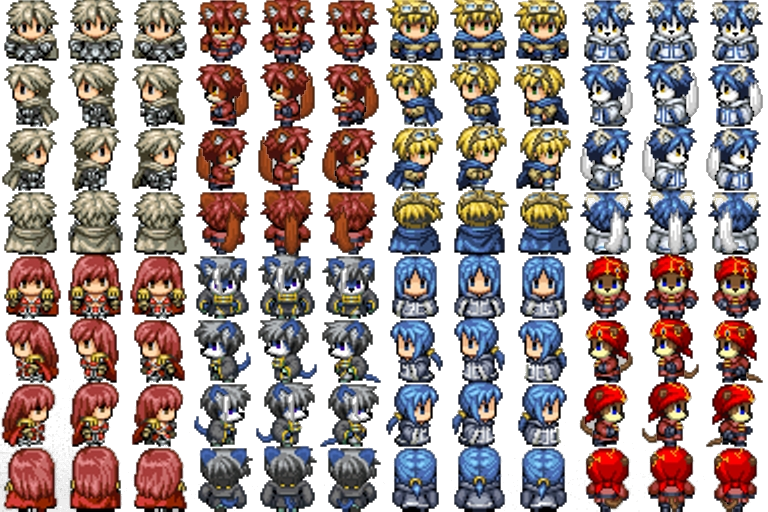
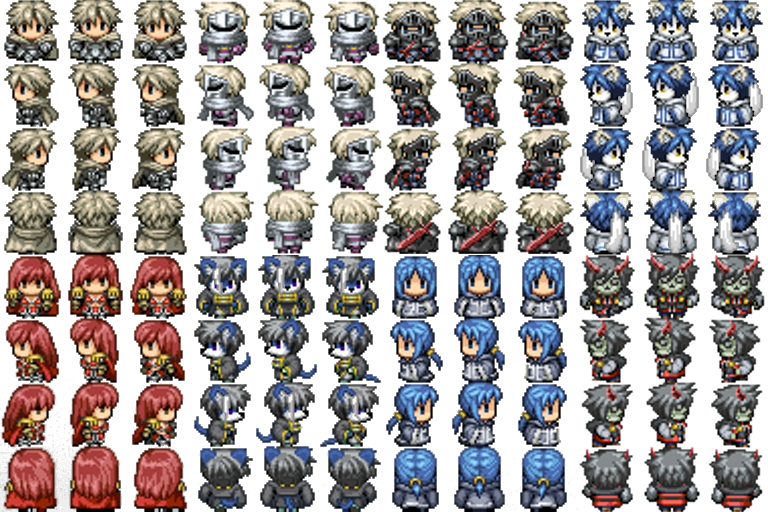
new game window with textures and character choice

Changed region(s): [[0.25, 0.0, 0.75, 0.5], [0.75, 0.4688, 1.0, 1.0]]

diff --git a/LevelEditorCore/MainMenu.cpp b/LevelEditorCore/MainMenu.cpp
@@ -19,11 +19,13 @@
 
 //Globals
 static int leftButtonMouse = 0;
+static int justOneTurn = 0;
 static int rightButtonMouse = 0;
 static int elapsedTime = 0;
+static int elapsedTimeClick = 0;
 static int chosenwindow = 0;
 static int turnsToProcess = 0;
-static int characterchoice = 0;
+static int characterchoice = 0; //0-7
 
 static int charactersizeh = 0;
 static int charactersizew = 0;
@@ -90,7 +92,7 @@ static SDL_Rect Create_Rect;
 static SDL_Rect Arrows_Rect[4]; //1 and 2 are dests on png, 3 and 4 are dests on screen... left->right
 
 //others
-static SDL_Rect CharacterFrame_Rect[3]; //0 is destination on png pic, 1 is with blue printings, 2 is dest on Screen
+static SDL_Rect CharacterFrame_Rect[4]; //0 is destination on png pic, 1 is with blue printings, 2 is dest on Screen
 static SDL_Surface* CharacterFrame = NULL;
 static SDL_Texture* TextureCharacterFrame = nullptr;
 static SDL_Texture* TexGuy = nullptr;
@@ -420,7 +422,7 @@ CHANGESTATE(NewGameOnEnterState)
 	//Character Textures Surfaces and positions...
 
 	//CharacterFrame 
-	
+
 	CharacterFrame_Rect[0].w = 70;
 	CharacterFrame_Rect[0].h = 85;
 	CharacterFrame_Rect[0].x = 450;
@@ -431,14 +433,18 @@ CHANGESTATE(NewGameOnEnterState)
 	CharacterFrame_Rect[1].y = 235;
 	CharacterFrame_Rect[2].w = 0.125 * obj->Width;
 	CharacterFrame_Rect[2].h = 0.3333333333 * obj->Height;
-	CharacterFrame_Rect[2].x = ((NewGameBackground_Rect.w / 2) - (CharacterFrame_Rect[2].w / 2 )) + NewGameBackground_Rect.x;
+	CharacterFrame_Rect[2].x = ((NewGameBackground_Rect.w / 2) - (CharacterFrame_Rect[2].w / 2)) + NewGameBackground_Rect.x;
 	CharacterFrame_Rect[2].y = ((NewGameBackground_Rect.h / 2) - (CharacterFrame_Rect[2].h / 2)) + NewGameBackground_Rect.y;
+	CharacterFrame_Rect[3].w = 0.1 * obj->Width;
+	CharacterFrame_Rect[3].h = 0.233333 * obj->Height;
+	CharacterFrame_Rect[3].x = ((NewGameBackground_Rect.w / 2) - (CharacterFrame_Rect[3].w / 2)) + NewGameBackground_Rect.x;
+	CharacterFrame_Rect[3].y = ((NewGameBackground_Rect.h / 2) - (CharacterFrame_Rect[3].h / 2)) + NewGameBackground_Rect.y;
 	CharacterFrame = IMG_Load("..\\resources\\resources.png");
 	TextureCharacterFrame = SDL_CreateTextureFromSurface(obj->Renderer, CharacterFrame);
 
 
 	//Characters "Guy" ... destinations on the png!
-	
+
 	Guy_Rect[0].x = 65;
 	Guy_Rect[0].y = 0;
 	Guy_Rect[0].w = 62;
@@ -451,6 +457,26 @@ CHANGESTATE(NewGameOnEnterState)
 	Guy_Rect[2].y = 0;
 	Guy_Rect[2].w = 62;
 	Guy_Rect[2].h = 63;
+	Guy_Rect[3].x = 641;
+	Guy_Rect[3].y = 0;
+	Guy_Rect[3].w = 62;
+	Guy_Rect[3].h = 63;
+	Guy_Rect[4].x = 65;
+	Guy_Rect[4].y = 255;
+	Guy_Rect[4].w = 62;
+	Guy_Rect[4].h = 63;
+	Guy_Rect[5].x = 257;
+	Guy_Rect[5].y = 255;
+	Guy_Rect[5].w = 62;
+	Guy_Rect[5].h = 63;
+	Guy_Rect[6].x = 447;
+	Guy_Rect[6].y = 255;
+	Guy_Rect[6].w = 62;
+	Guy_Rect[6].h = 63;
+	Guy_Rect[7].x = 641;
+	Guy_Rect[7].y = 255;
+	Guy_Rect[7].w = 62;
+	Guy_Rect[7].h = 63;
 	Guy = IMG_Load("..\\resources\\characters.png");
 	TexGuy = SDL_CreateTextureFromSurface(obj->Renderer, Guy);
 
@@ -475,7 +501,7 @@ CHANGESTATE(NewGameOnEnterState)
 	Arrows_Rect[2].y = ((NewGameBackground_Rect.h / 2) - (CharacterFrame_Rect[2].h / 2)) + NewGameBackground_Rect.y + (CharacterFrame_Rect[2].h / 2) - (Arrows_Rect[2].h / 2);
 
 	Arrows_Rect[3].w = 0.01875 * obj->Width;
-	Arrows_Rect[3].h = 0.1 *obj->Height;
+	Arrows_Rect[3].h = 0.07 *obj->Height;
 	Arrows_Rect[3].x = (obj->Width / 2) + (0.6 * CharacterFrame_Rect[2].w);
 	Arrows_Rect[3].y = ((NewGameBackground_Rect.h / 2) - (CharacterFrame_Rect[2].h / 2)) + NewGameBackground_Rect.y + (CharacterFrame_Rect[2].h / 2) - (Arrows_Rect[2].h / 2);
 }
@@ -505,11 +531,22 @@ TOPROCESS(NewGameUpdate) {
 	{
 		elapsedTime += elapsedTime_Lag;
 	}
-	if (elapsedTime >= 200)
+	if (elapsedTime > 200)
 	{
 		leftButtonMouse = 0;
 		elapsedTime = 0;
 	}
+	if (justOneTurn > 0)
+	{
+		elapsedTimeClick += elapsedTime_Lag;
+	}
+	if (elapsedTimeClick > 100)
+	{
+		justOneTurn = 0;
+		elapsedTimeClick = 0;
+	}
+
+
 
 	if (MouseOverButton(obj, Cancel_Rect) == 1)
 		MouseOnCancel = 1;
@@ -520,11 +557,34 @@ TOPROCESS(NewGameUpdate) {
 	else
 		MouseOnCreate = 0;
 
+	if (MouseOverButton(obj, Arrows_Rect[2]) == 1 && leftButtonMouse == 1)
+	{
+		justOneTurn++;
+		if(justOneTurn == 1)
+		characterchoice--;
+		leftButtonMouse = 0;
+	}
+	if (MouseOverButton(obj, Arrows_Rect[3]) == 1 && leftButtonMouse == 1)
+	{
+		justOneTurn++;
+		if (justOneTurn == 1)
+		characterchoice++;
+		leftButtonMouse = 0;
+	}
+	if (characterchoice > 7)
+		characterchoice = 0;
+	if (characterchoice < 0)
+		characterchoice = 7;
+
+	
+
+	//End NewGameState
 	if ((MouseOverButton(obj, Cancel_Rect) == 1)&& leftButtonMouse == 1)
 	{
 		NewGameOnExitState(obj);
 		MainMenuOnResumeState(obj);
 	}
+
 }
 
 TOPROCESS(NewGameInput) {
@@ -568,6 +628,7 @@ TOPROCESS(NewGameRender) {
 	SDL_RenderCopy(obj->Renderer, Frame, &Frame_Rect, &Cancel_Rect);
 	SDL_RenderCopy(obj->Renderer, Frame, &Frame_Rect, &Create_Rect);
 	SDL_RenderCopy(obj->Renderer, TextureCharacterFrame, &CharacterFrame_Rect[0], &CharacterFrame_Rect[2]);
+	SDL_RenderCopy(obj->Renderer, TexGuy, &Guy_Rect[characterchoice], &CharacterFrame_Rect[3]);
 
 	if (MouseOnCancel == 1)
 	{
